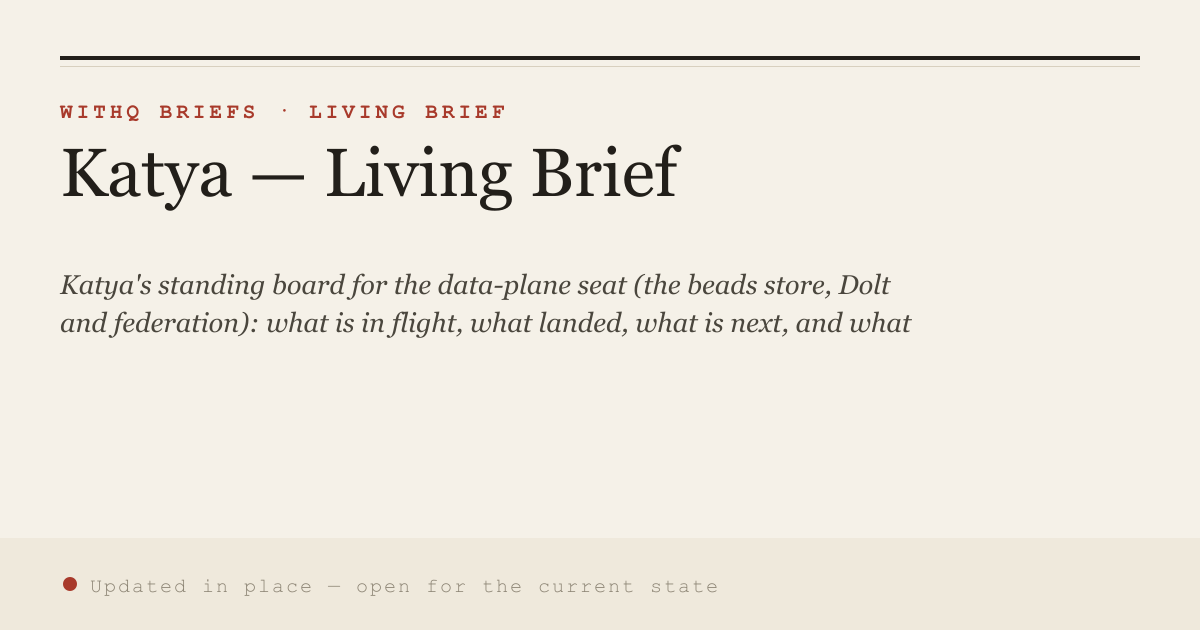
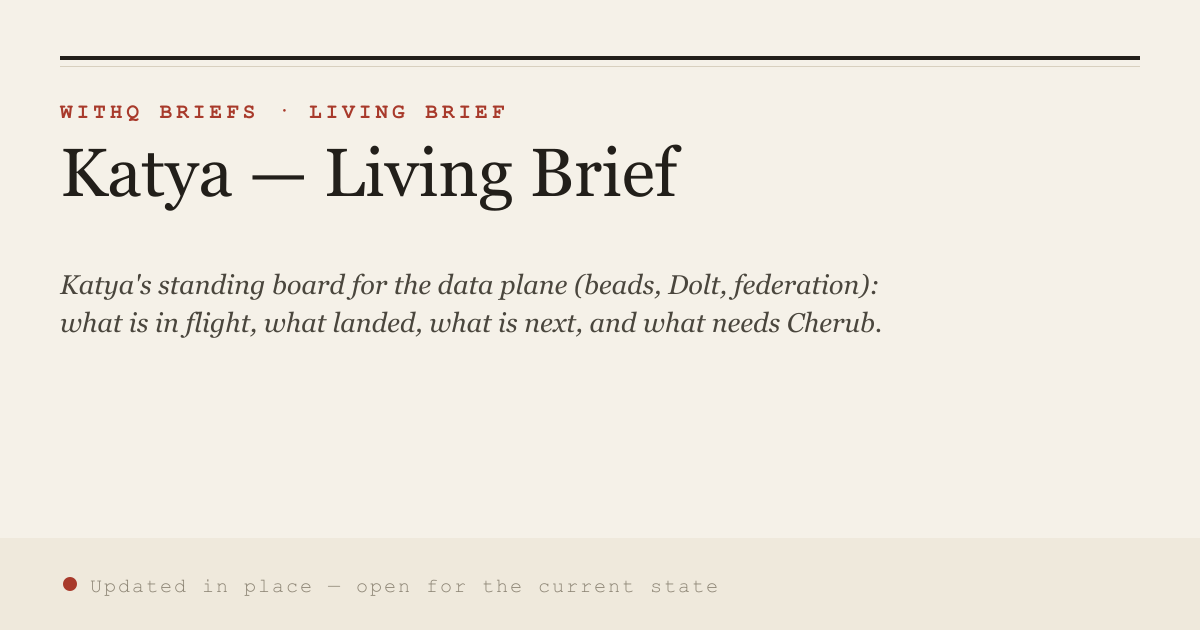
cards: sync org surface (53 cards, 33 skipped)

Changed region(s): [[0.0617, 0.4222, 0.7708, 0.5429]]

diff --git a/katya-living-brief.html b/katya-living-brief.html
@@ -4,12 +4,12 @@
 <meta charset="utf-8">
 <meta name="viewport" content="width=device-width, initial-scale=1">
 <title>Katya — Living Brief</title>
-<meta name="description" content="Katya&#x27;s standing board for the data-plane seat (the beads store, Dolt and federation): what is in flight, what landed, what is next, and what is…">
+<meta name="description" content="Katya&#x27;s standing board for the data plane (beads, Dolt, federation): what is in flight, what landed, what is next, and what needs Cherub.">
 <meta name="robots" content="noindex">
 <meta property="og:type" content="article">
 <meta property="og:site_name" content="WithQ Briefs">
 <meta property="og:title" content="Katya — Living Brief">
-<meta property="og:description" content="Katya&#x27;s standing board for the data-plane seat (the beads store, Dolt and federation): what is in flight, what landed, what is next, and what is…">
+<meta property="og:description" content="Katya&#x27;s standing board for the data plane (beads, Dolt, federation): what is in flight, what landed, what is next, and what needs Cherub.">
 <meta property="og:url" content="https://quickserve-ai.github.io/briefs-cards/katya-living-brief.html">
 <meta property="og:image" content="https://quickserve-ai.github.io/briefs-cards/katya-living-brief.png">
 <meta property="og:image:width" content="1200">
@@ -17,7 +17,7 @@
 <meta property="og:image:alt" content="Katya — Living Brief">
 <meta name="twitter:card" content="summary_large_image">
 <meta name="twitter:title" content="Katya — Living Brief">
-<meta name="twitter:description" content="Katya&#x27;s standing board for the data-plane seat (the beads store, Dolt and federation): what is in flight, what landed, what is next, and what is…">
+<meta name="twitter:description" content="Katya&#x27;s standing board for the data plane (beads, Dolt, federation): what is in flight, what landed, what is next, and what needs Cherub.">
 <meta name="twitter:image" content="https://quickserve-ai.github.io/briefs-cards/katya-living-brief.png">
 <meta http-equiv="refresh" content="0;url=https://ideal-doodle-r3yey16.pages.github.io/katya-living-brief.html">
 <script>location.replace("https://ideal-doodle-r3yey16.pages.github.io/katya-living-brief.html");</script>
@@ -29,7 +29,7 @@
 </head>
 <body>
 <p><strong>Katya — Living Brief</strong></p>
-<p>Katya&#x27;s standing board for the data-plane seat (the beads store, Dolt and federation): what is in flight, what landed, what is next, and what is…</p>
+<p>Katya&#x27;s standing board for the data plane (beads, Dolt, federation): what is in flight, what landed, what is next, and what needs Cherub.</p>
 <p>Taking you to the brief… (org sign-in required)
    <a href="https://ideal-doodle-r3yey16.pages.github.io/katya-living-brief.html">Continue →</a></p>
 </body>

diff --git a/index.html b/index.html
@@ -21,7 +21,7 @@ brief that requires org sign-in. 53 cards.</p>
 <li><a href="slater-living-brief.html">Slater — Living Brief</a> <span class="d">slater&#x27;s standing board for the StayNTouch PMS integration program: what needs Cherub, the two PRs in certification and their gates, repricing and…</span></li>
 <li><a href="platform-lead-living-brief.html">Platform-lead — Living Brief</a> <span class="d">The platform seat&#x27;s standing board: who holds the queue, where the build lane stands, what was decided. Updated in place; open it for the live state.</span></li>
 <li><a href="mayor-living-brief.html">Mayor — Living Brief</a> <span class="d">The mayor seat&#x27;s standing board — done, doing, going, and current understanding. Updated in place; open it for the live state.</span></li>
-<li><a href="katya-living-brief.html">Katya — Living Brief</a> <span class="d">Katya&#x27;s standing board for the data-plane seat (the beads store, Dolt and federation): what is in flight, what landed, what is next, and what is…</span></li>
+<li><a href="katya-living-brief.html">Katya — Living Brief</a> <span class="d">Katya&#x27;s standing board for the data plane (beads, Dolt, federation): what is in flight, what landed, what is next, and what needs Cherub.</span></li>
 <li><a href="cyril-living-brief.html">Cyril — Living Brief</a> <span class="d">The q-core open-PR backlog at a glance: what the blitz is landing, which PRs are waiting on Cherub, why PRs strand (measured), and the dated risks…</span></li>
 <li><a href="cheryl-living-brief.html">Cheryl — Living Brief</a> <span class="d">The standing PA board: what needs attention, what&#x27;s in flight, what just resolved. Updated in place; open it for the live state.</span></li>
 <li><a href="barry-living-brief.html">Barry — Living Brief</a> <span class="d">The barry seat&#x27;s standing board: what it is working on, what is blocked and on whom, and what it needs from Cherub. Updated in place; open it for…</span></li>
